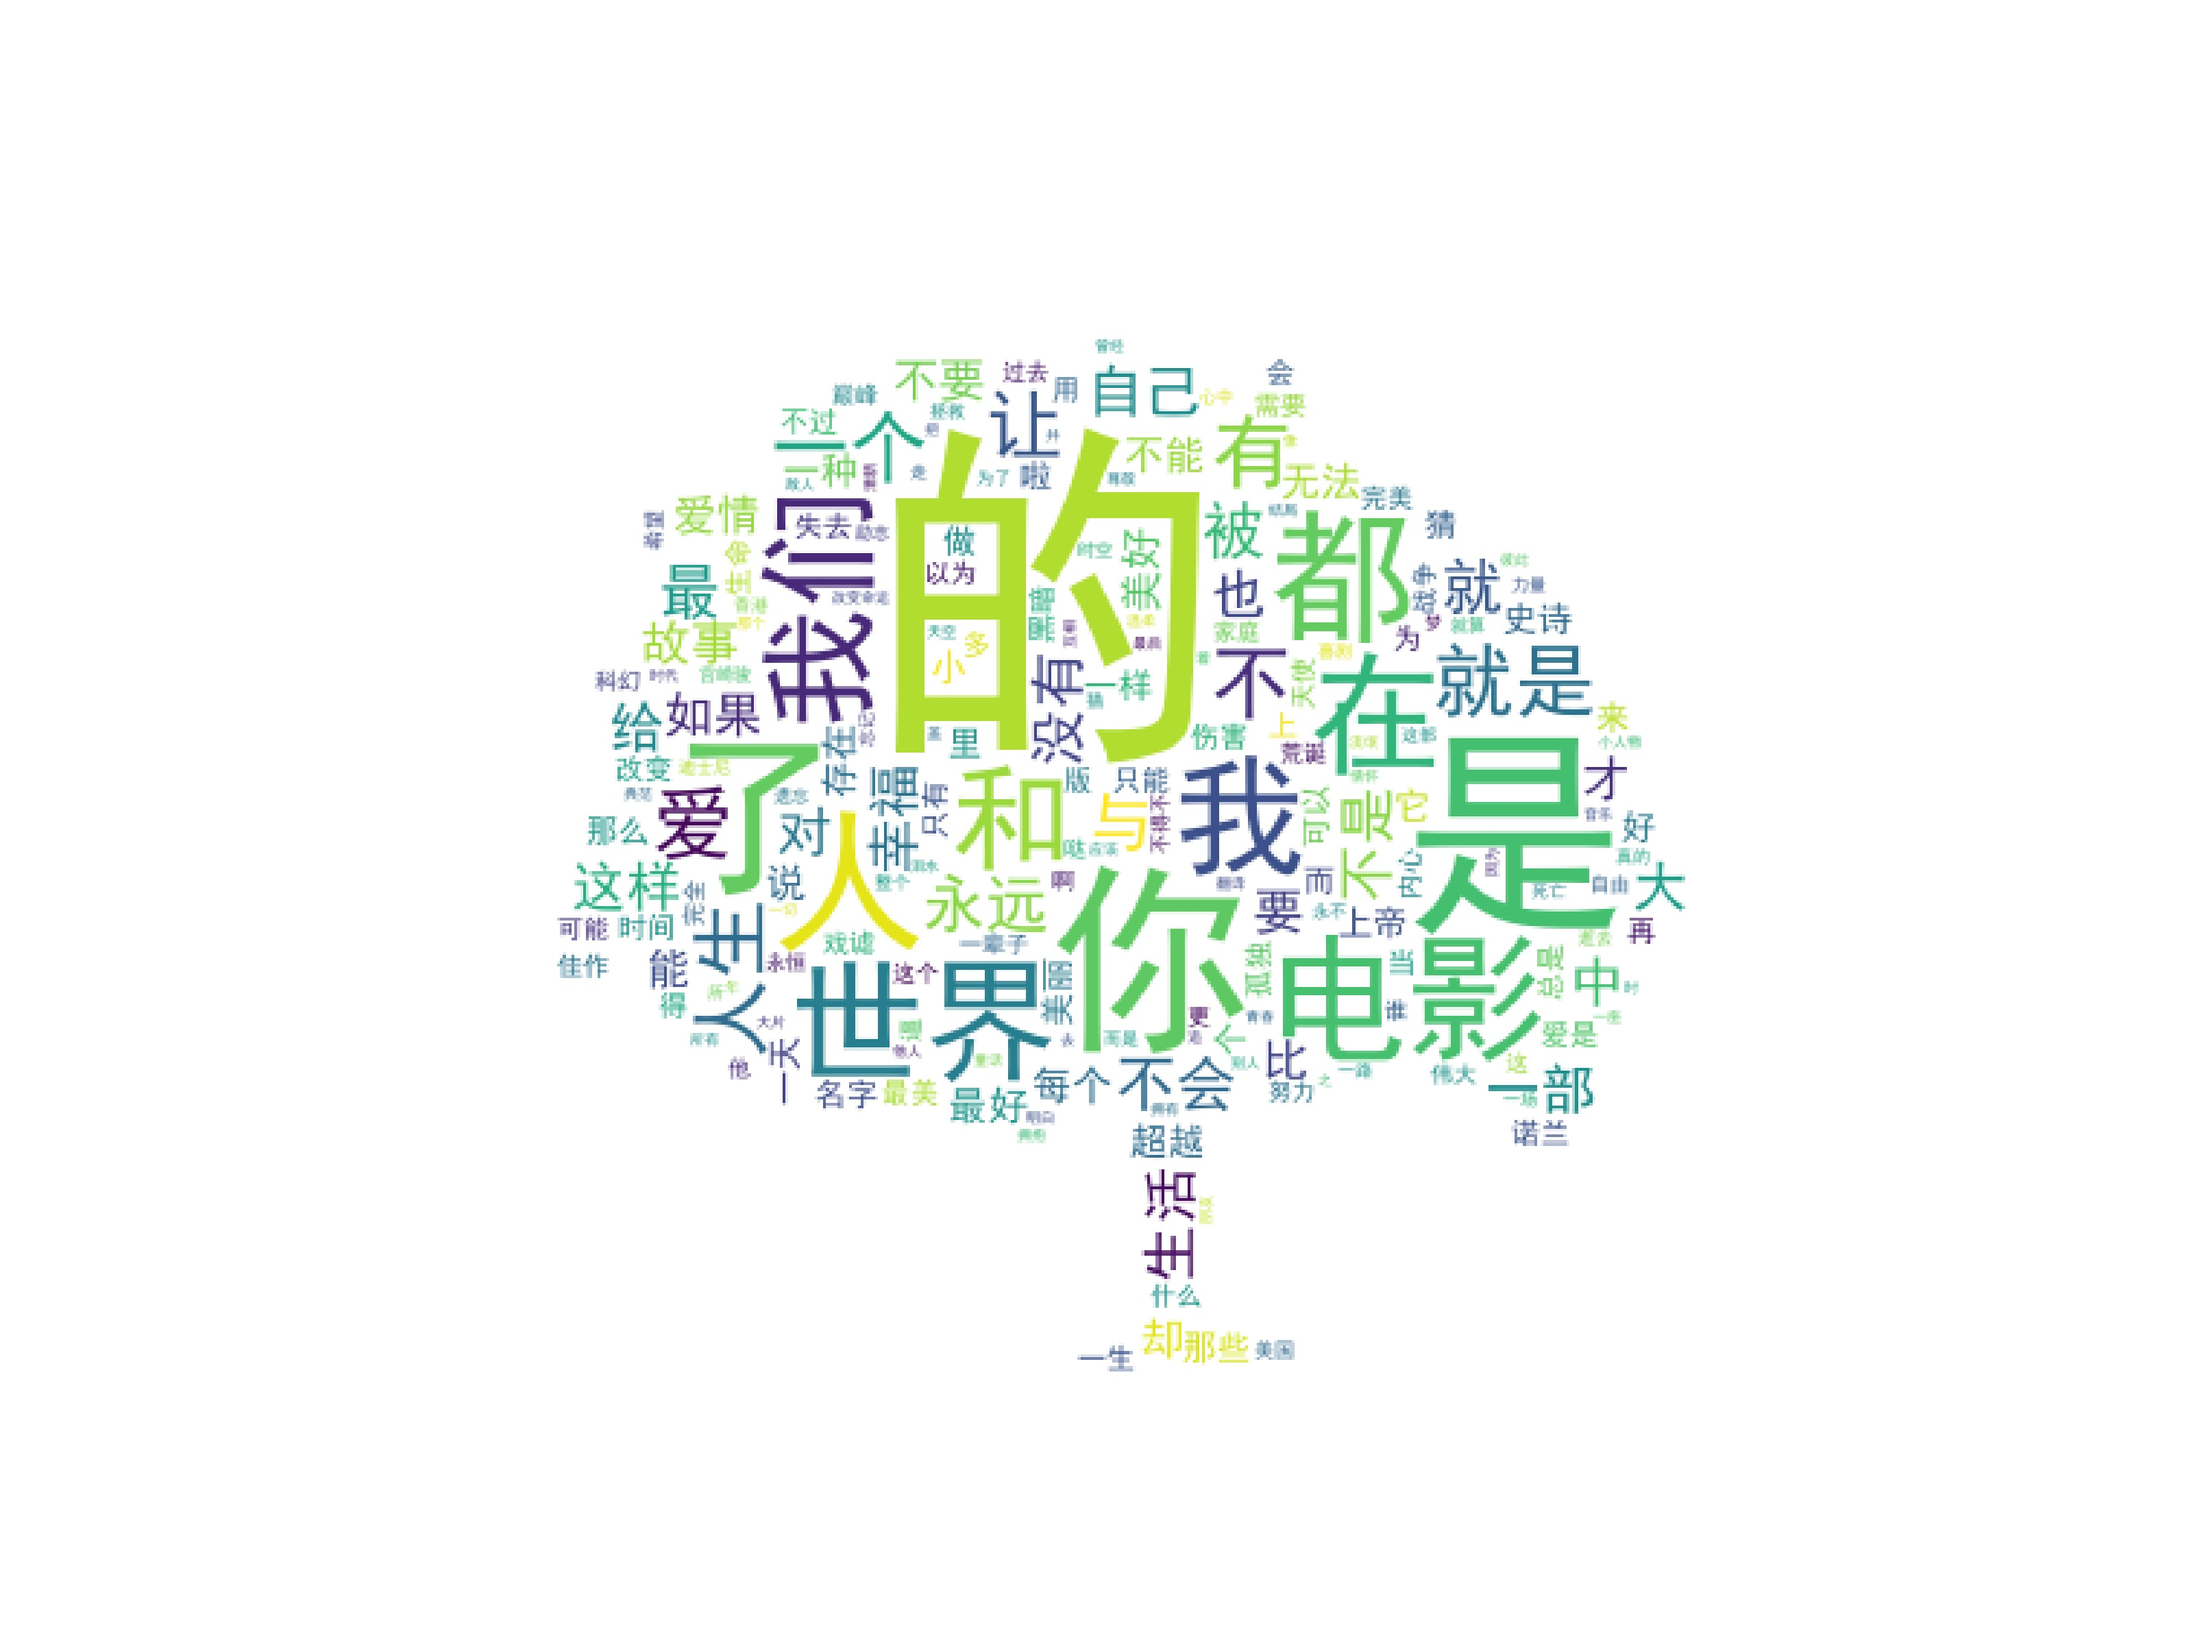
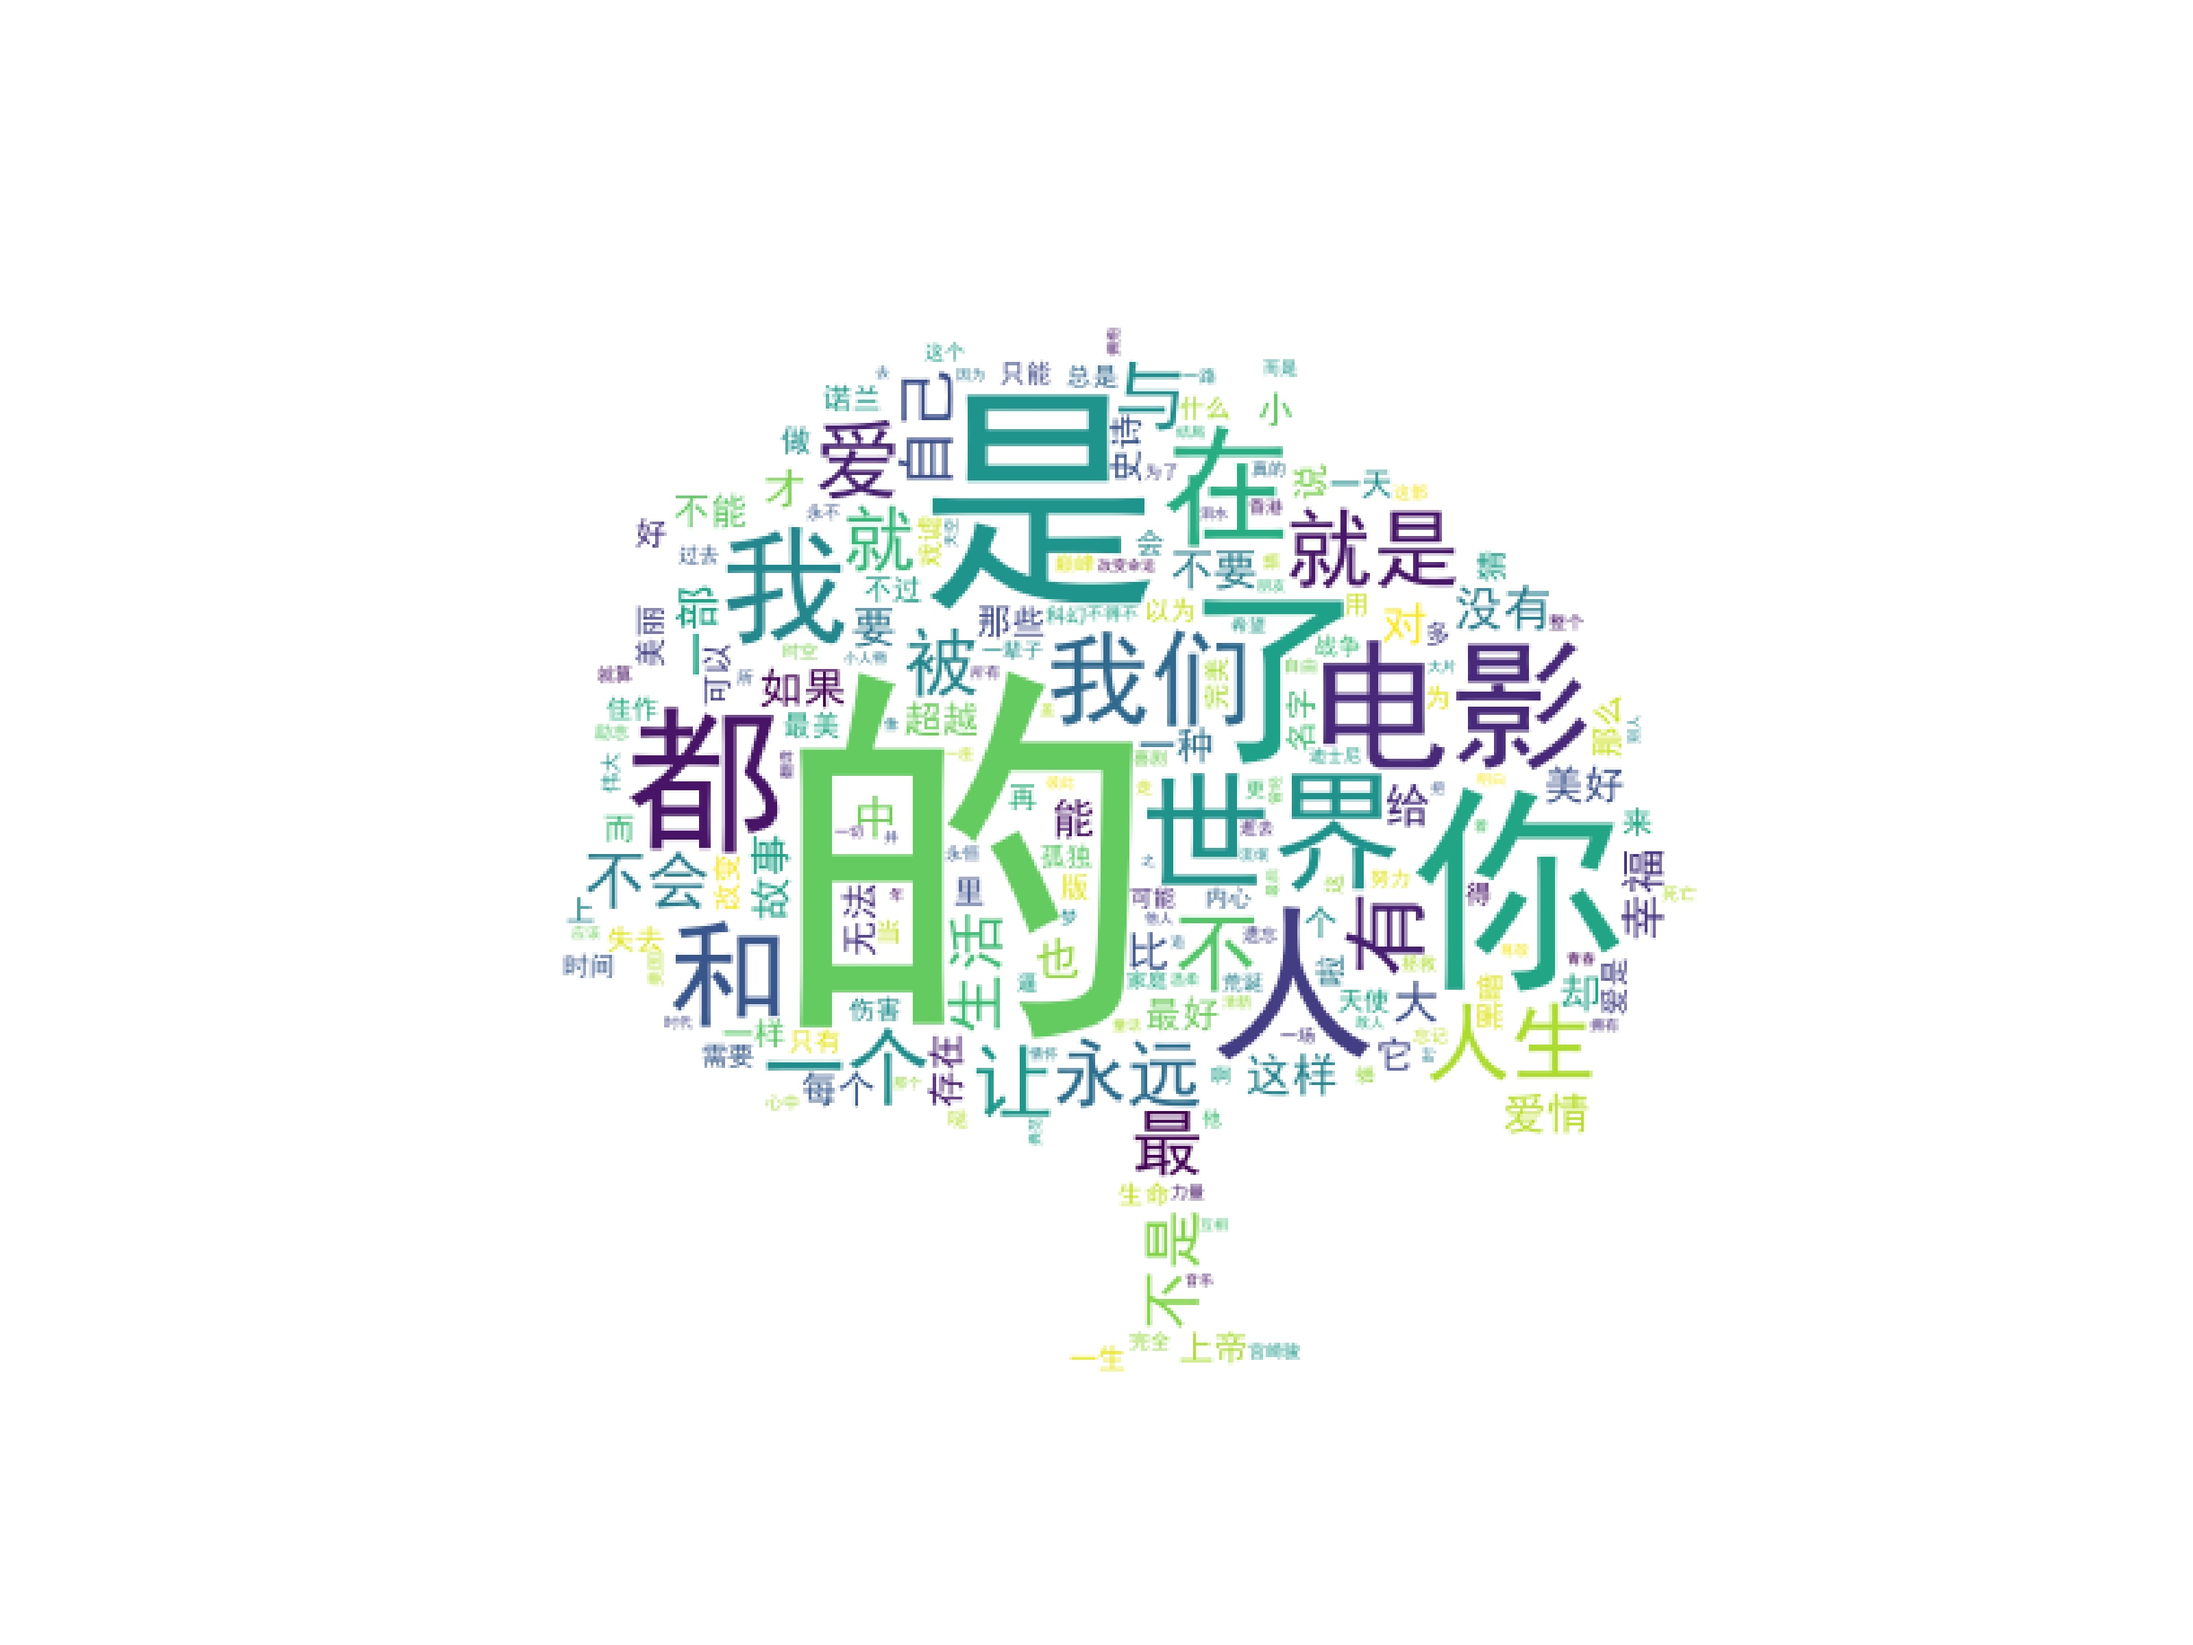
词云

Changed region(s): [[0.25, 0.1875, 0.7812, 0.8438]]

diff --git a/templates/word.html b/templates/word.html
@@ -5,7 +5,7 @@
   <meta charset="utf-8">
   <meta content="width=device-width, initial-scale=1.0" name="viewport">
 
-  <title>豆瓣Top250数据分析</title>
+  <title>Mamba Bootstrap Template - Index</title>
   <meta content="" name="descriptison">
   <meta content="" name="keywords">
 
@@ -30,7 +30,6 @@
 </head>
 
 <body>
-
   <!-- ======= Header ======= -->
   <header id="header">
     <div class="container">
@@ -38,84 +37,51 @@
       <div class="logo float-left">
         <h1 class="text-light"><a href="/index"><span>Mamba</span></a></h1>
         <!-- Uncomment below if you prefer to use an image logo -->
-        <!-- <a href="temp.html"><img src="static/assets/img/logo.png" alt="" class="img-fluid"></a>-->
+        <!-- <a href="index.html"><img src="static/assets/img/logo.png" alt="" class="img-fluid"></a>-->
       </div>
 
       <nav class="nav-menu float-right d-none d-lg-block">
         <ul>
-          <li class="active"><a href="/index">首页 <i class="la la-angle-down"></i></a></li>
-          <li><a href="/movie">电影</a></li>
-          <li><a href="/score">评分</a></li>
-          <li><a href="/word">词云</a></li>
-          <li><a href="/team">团队</a></li>
+            <li class="active"><a href="/index">首页 <i class="la la-angle-down"></i></a></li>
+            <li><a href="/movie">电影</a></li>
+            <li><a href="/score">评分</a></li>
+            <li><a href="/word">词云</a></li>
+            <li><a href="/team">团队</a></li>
         </ul>
       </nav><!-- .nav-menu -->
 
     </div>
   </header><!-- End Header -->
 
-    <!-- ======= Our Team Section ======= -->
-    <section id="team" class="team">
+  <!-- ======= Hero Section ======= -->
+  <!-- ======= About Us Section ======= -->
+    <section id="about" class="about">
       <div class="container">
 
-        <div class="section-title">
-          <h2>豆瓣电影Top250数据分析</h2>
-          <p>应用Python爬虫、Flask框架、Echarts、WordCloud等技术实现</p>
-        </div>
-
-    <!-- ======= Counts Section ======= -->
-    <section class="counts section-bg">
-      <div class="container">
-
-        <div class="row">
-
-          <div class="col-lg-3 col-md-6 text-center" data-aos="fade-up">
-              <a href="/movie">
-              <div class="count-box">
-              <i class="icofont-simple-smile" style="color: #20b38e;"></i>
-              <span data-toggle="counter-up">250</span>
-              <p>经典电影</p>
-            </div>
-              </a>
+        <div class="row no-gutters">
+          <div class="col-lg-6 video-box">
+            <img src="static/assets/img/word.jpg" class="img-fluid" alt="">
           </div>
 
-          <div class="col-lg-3 col-md-6 text-center" data-aos="fade-up" data-aos-delay="200">
-           <a href="/score">
-            <div class="count-box">
-              <i class="icofont-document-folder" style="color: #c042ff;"></i>
-              <span data-toggle="counter-up">1</span>
-              <p>评分统计</p>
-            </div>
-           </a>
-          </div>
+          <div class="col-lg-6 d-flex flex-column justify-content-center about-content">
 
-          <div class="col-lg-3 col-md-6 text-center" data-aos="fade-up" data-aos-delay="400">
-            <a href="/word">
-              <div class="count-box">
-              <i class="icofont-live-support" style="color: #46d1ff;"></i>
-              <span data-toggle="counter-up">5693</span>
-              <p>词汇统计</p>
+            <div class="section-title">
+              <h2>词频统计</h2>
+              <p>根据250部电影的一句话描述，提炼出词云树，可以让我们更加清晰的了解人们对经典电影的理解</p>
             </div>
-            </a>
-          </div>
 
-          <div class="col-lg-3 col-md-6 text-center" data-aos="fade-up" data-aos-delay="600">
-            <a href="/team">
-              <div class="count-box">
-              <i class="icofont-users-alt-5" style="color: #ffb459;"></i>
-              <span data-toggle="counter-up">5</span>
-              <p>团队成员</p>
+            <div class="icon-box" data-aos="fade-up" data-aos-delay="100">
+              <div class="icon"><i class="bx bx-gift"></i></div>
+              <h4 class="title"><a href="">关于电影</a></h4>
+              <p class="description">你从中悟到了什么？</p>
             </div>
-            </a>
+
           </div>
         </div>
 
       </div>
-    </section><!-- End Counts Section -->
+    </section><!-- End About Us Section -->
 
-
-      </div>
-    </section><!-- End Our Team Section -->
 
   <!-- ======= Footer ======= -->
   <footer id="footer">
